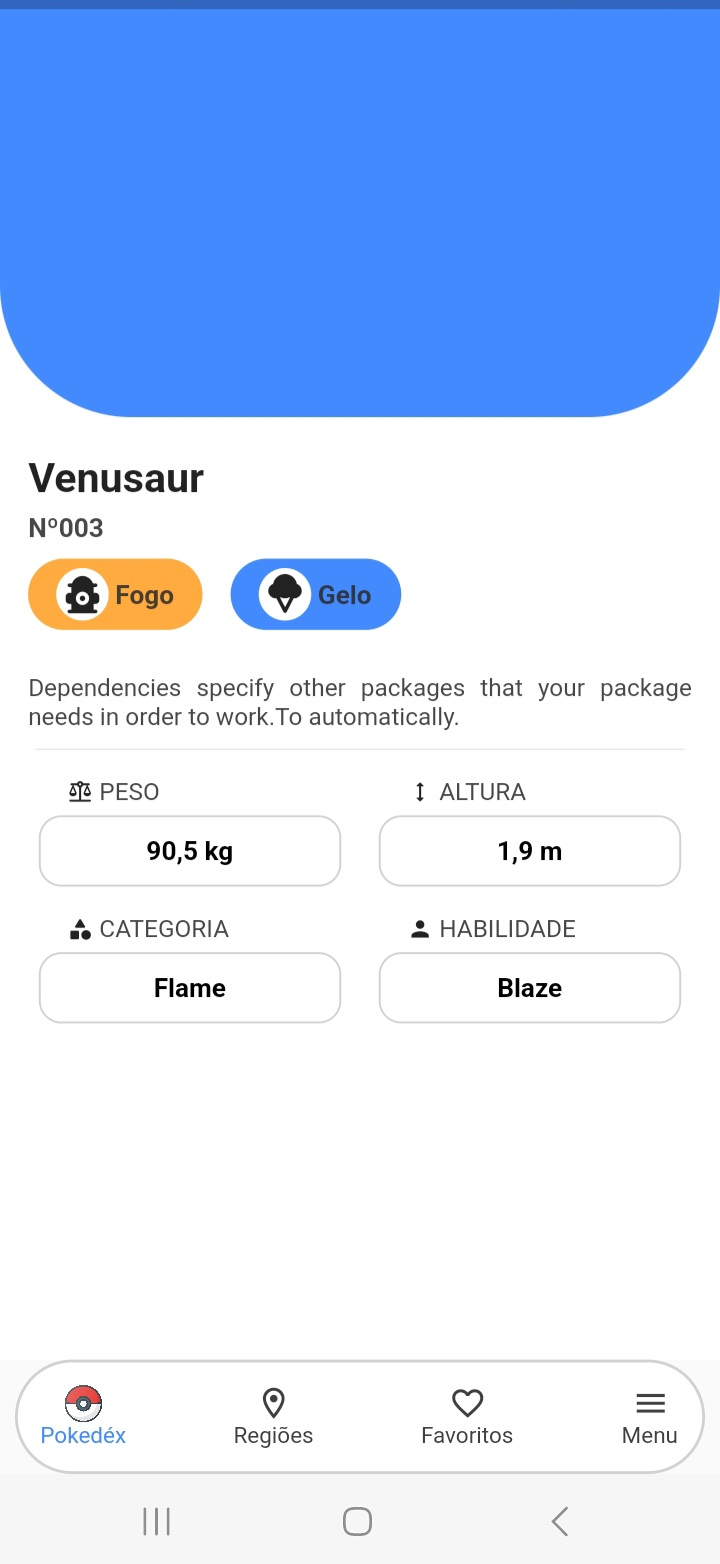
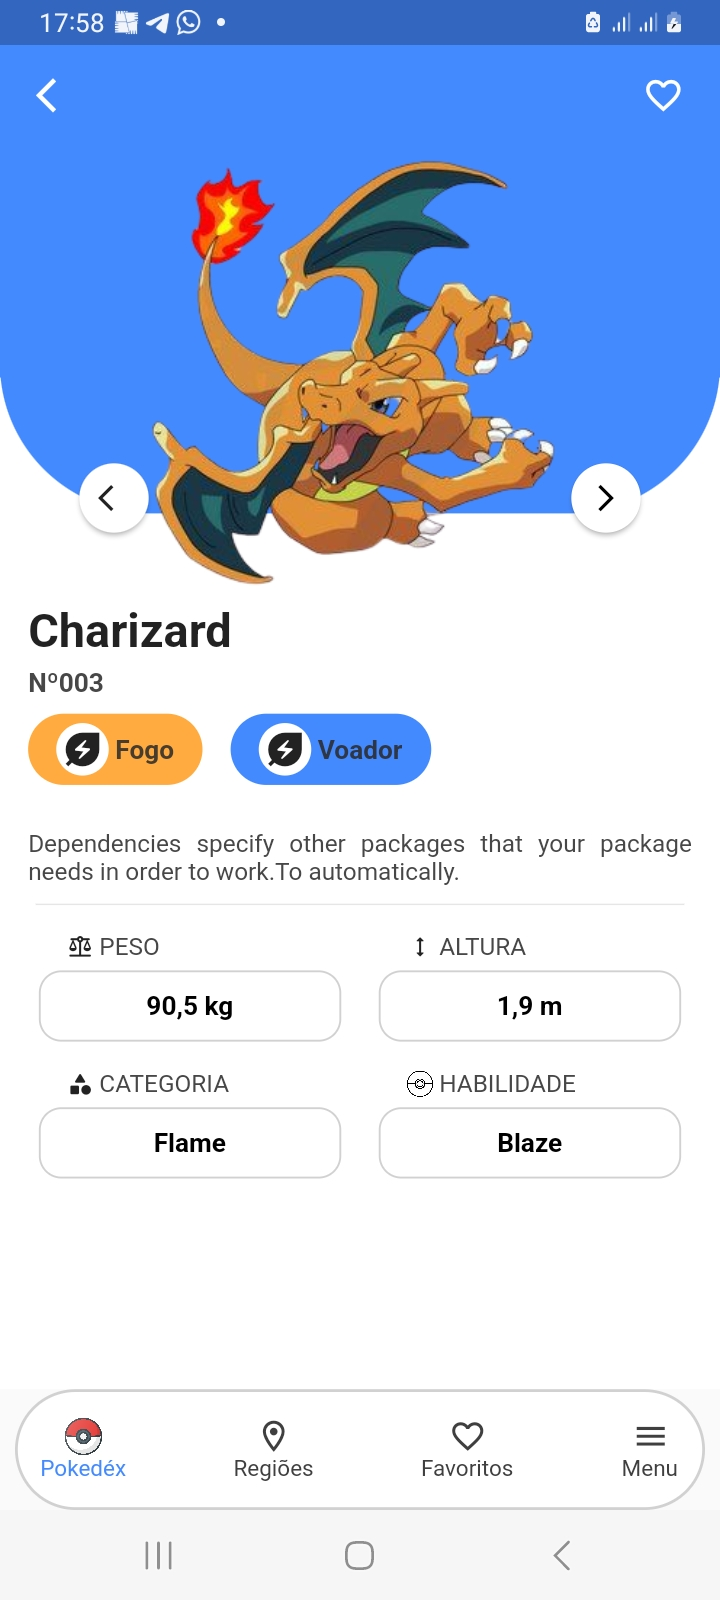
Style - UI Interface improvement

diff --git a/lib/pages/home.dart b/lib/pages/home.dart
@@ -18,14 +18,26 @@ enum navigatorOptions{
 
 class _HomePageState extends State<HomePage> {
   var currentPage = navigatorOptions.pokedex;
+  final PageController controller = PageController();
+  int currentIndex = 0;
+  List<String> pokemons = [
+    "images/charizad.png",
+    "images/charizad2.png",
+    "images/blastoise.png",
+    "images/blastoise2.png",
+    "images/venusaur.png",
+    "images/venusaur2.png",
+  ];
+
   @override
   Widget build(BuildContext context) {
     Size size = MediaQuery.of(context).size;
     return Scaffold(
+      resizeToAvoidBottomInset: false,
       body: body(size),
       bottomNavigationBar: SafeArea(
         child: Container(
-          
+          height: size.height * 0.08,
           padding: EdgeInsets.all(12),
           margin: EdgeInsets.symmetric(horizontal: 8),
           decoration: BoxDecoration(
@@ -106,33 +118,162 @@ class _HomePageState extends State<HomePage> {
   body(Size size){
     return
     Container(
+      height: size.height,
       color: Colors.white,
       child: Column(
         children: [
           Container(
             //margin: EdgeInsets.all(100),
-            height: size.height * 0.3,
+            height: size.height * 0.4,
             decoration: BoxDecoration(
-              color: Colors.blueAccent,
-              //shape: BoxShape.circle,
-              borderRadius: BorderRadius.only(
+              color: Colors.white//Color.fromARGB(255, 150, 120, 120),
+              /*borderRadius: BorderRadius.only(
                 bottomLeft: Radius.circular(70),
                 bottomRight: Radius.circular(70),
-              ),
-              
+              ), */
             ),
+            child: Stack(
+              alignment: AlignmentDirectional.topCenter,
+              children: [
+                Container(
+                  height: size.height * 0.25,
+                  //margin: EdgeInsets.only(left: 10,right: 10,top: size.height * 0.06),
+                  decoration: BoxDecoration(
+                    color: Colors.blueAccent,//Color.fromARGB(255, 148, 152, 160),
+                    //shape: BoxShape.circle,
+                    /*borderRadius: BorderRadius.only(
+                      bottomLeft: Radius.circular(70),
+                      bottomRight: Radius.circular(70),
+                    ), */
+                  ),
+                  
+                ),
+                Positioned(
+                  child: Container(
+                    margin: EdgeInsets.only(top: size.height * 0.24),
+                    height: size.height * 0.1,
+                    decoration: BoxDecoration(
+                      color: Colors.blueAccent,//Color.fromARGB(255, 94, 108, 138),
+                      //shape: BoxShape.circle,
+                      borderRadius: BorderRadius.only(
+                        bottomLeft: Radius.circular(200),
+                        bottomRight: Radius.circular(200),
+                      ), 
+                    ),
+                  ),
+                ),
+                Positioned(
+                  top: 40,
+                  width: size.width*0.90,
+                  
+                  child: Row(
+                    mainAxisAlignment: MainAxisAlignment.spaceBetween,
+                    children: [
+                    
+                      InkWell(
+                        child: Icon(Icons.arrow_back_ios,color: Colors.white,size: 22,),
+                        onTap: () {
+                        
+                        },
+                      ),
+                      InkWell(
+                        child: Icon(Icons.favorite_border,color: Colors.white,size: 22,),
+                        onTap: () {
+                          
+                        },
+                      )
+                      
+                    ],
+                  ), 
+                ),
+                Positioned(
+                  
+                  child: Container(
+                    margin: EdgeInsets.only(top: size.height * 0.1),
+                    height: 300,
+                    width: size.width,
+                    child: PageView.builder(
+                      controller: controller,
+                      onPageChanged: (index){
+                        setState(() {
+                          currentIndex = index % pokemons.length;
+                          print(currentIndex);
+                        });
+          
+                      },
+                      itemBuilder: (context, index){
+                      return Padding(
+                        padding: const EdgeInsets.symmetric(horizontal: 20),
+                        child: Image.asset(
+                          pokemons[index % pokemons.length]
+                        ),
+                      );
+                    }),
+                  )
+                ),
+                Positioned(
+                  top: size.height * 0.3,
+                  width: size.width*0.85,
+                  
+                  child: Row(
+                    mainAxisAlignment: MainAxisAlignment.spaceBetween,
+                    children: [
+                      ElevatedButton(
+                        onPressed: () {
+                          controller.jumpToPage(currentIndex - 1);
+                        },
+                        child: Icon(Icons.arrow_back_ios,color: Colors.black87,size: 17,),
+                        style: ButtonStyle(
+                          shape: MaterialStateProperty.all(CircleBorder()),
+                          padding: MaterialStateProperty.all(EdgeInsets.all(10)),
+                          backgroundColor: MaterialStateProperty.all(Colors.white), 
+                          //shadowColor: MaterialStateProperty.all(Colors.black87)// <-- Button color
+                          
+                        ),
+                      ),
+                      /*IconButton(
+                        icon: Icon(Icons.arrow_back_ios,color: Colors.white,size: 22,),
+                        onPressed: () {
+                        
+                        },
+                      ),
+                      IconButton(
+                        icon: Icon(Icons.arrow_forward_ios,color: Colors.white,size: 22,),
+                        onPressed: () {
+                          
+                        },
+                      ),*/
+                      ElevatedButton(
+                        onPressed: () {
+                          controller.jumpToPage(currentIndex + 1);
+                        },
+                        child: Icon(Icons.arrow_forward_ios,color: Colors.black,size: 17,),
+                        style: ButtonStyle(
+                          shape: MaterialStateProperty.all(CircleBorder()),
+                          padding: MaterialStateProperty.all(EdgeInsets.all(10)),
+                          backgroundColor: MaterialStateProperty.all(Colors.white), // <-- Button color
+                          
+                        ),
+                      )
+                      
+                    ],
+                  ), 
+                ),
+              ],
+            )
+              
           ),
           Container(
-            //height: size.height * 0.7,
+            height: size.height * 0.5,
             child: Column(
               children: [
                 Container(
-                  margin: EdgeInsets.only(top: 20,left: 15),
+                  margin: EdgeInsets.only(left: 15),
                   alignment: Alignment.topLeft,
-                  child: Text("Venusaur",style: 
+                  child: Text("Charizard",style: 
                     TextStyle(
                       color: Colors.black87,
-                      fontSize: 22,
+                      fontSize: 25,
                       fontWeight: FontWeight.bold,
                       decoration: TextDecoration.none,
                     ),
@@ -172,7 +313,7 @@ class _HomePageState extends State<HomePage> {
                               color: Colors.white,
                               shape: BoxShape.circle,
                             ),
-                            child: Icon(Icons.fire_hydrant_alt_rounded,)
+                            child: /*Image.asset("images/fire.png")*/Icon(Icons.energy_savings_leaf)
                           ),
                           
                           Text(" Fogo",style:
@@ -204,10 +345,10 @@ class _HomePageState extends State<HomePage> {
                               color: Colors.white,
                               shape: BoxShape.circle,
                             ),
-                            child: Icon(Icons.icecream_rounded,)
+                            child: Icon(Icons.energy_savings_leaf)
                           ),
                           
-                          Text(" Gelo",style: 
+                          Text(" Voador",style: 
                             TextStyle(
                               color: Color.fromARGB(221, 44, 43, 43),
                               fontSize: 14,
@@ -387,8 +528,8 @@ class _HomePageState extends State<HomePage> {
                       Container(
                         margin: EdgeInsets.only(left: 15),
                         child: Row(
-                          children: const [
-                            Icon(Icons.person,size: 14,),
+                          children: [
+                            Image.asset("images/pokeball2.png",width: 14,height: 14,),
                             Text(" HABILIDADE",style: TextStyle(
                                 color: Color.fromARGB(221, 44, 43, 43),
                                 fontSize: 13,
